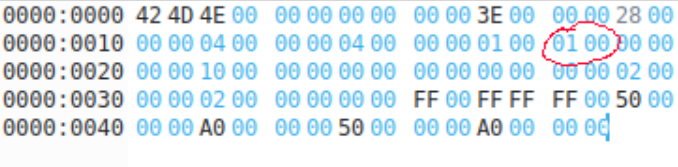
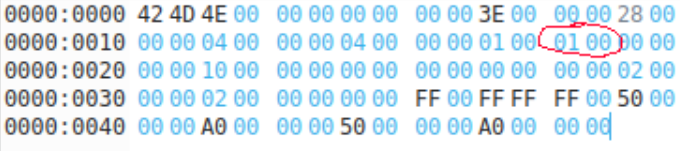
SAe et solo

diff --git a/SAE/Image/rapport.md b/SAE/Image/rapport.md
@@ -34,35 +34,70 @@ Cette question-ci était plus simple que la précédente, en effet, il ne fallai
 
 ## A.3)
 
-### A.3.A)
+### A.3.1)
 
-Il y a 48 bits par pixel, on peut l'affirmer grâce aux deux octets entourés en rouge qui permettent de transmettre la quantité de bits par pixel. Comme c'est en little endian on inverse les valeurs, et 30 (base 16) en décimal vaut 48. 
+Il y a 48 bits par pixel, on peut l'affirmer grâce aux deux octets entourés en rouge qui permettent de transmettre la quantité de bits par pixel. Il y est inscrit "30 00" comme c'est en little endian on inverse les valeurs, et 30 (base 16) en décimal vaut 48. 
 
 <img src="Image3A.png" alt="Image de réponse à la question 3 A" width="400" />
 
 
 
-### A.3.B)
+### A.3.2)
 
 Comme on peut le voir sur l'image, il y a 4x4 pixels sur l'image, soit 16 pixels.
 Pour obtenir ces informations, j'ai fais un clique droit sur l'image, propriété, image.
 
 <img src="Image3B.png" alt="Image de réponse à la question 3 B" width="400" />
 
-### A.3.C)
+On peut aussi le voir grâce à ces octets entourés, qui représente en premier la largeur puis la hauteur, les deux valeurs sont à 04 00 00 00, encore une fois, nous sommes en little endian donc nous inversons et obtenons 4x4, alors il y a 4 pixels sur 4 pixels.
 
-Avant la conversion, l'image faisait 74 octets, après conversion, l'image en fait désormais 102, donc il n'y a pas de compression utilisée, au contraire, sa taille augmente.
+<img src="Image3B2.png" alt="Image de réponse à la question 3 B " width="400" />
+
+### A.3.3)
+
+En regardant dans les propriétés de l'image, on sait que l'image faisait 74 octets avant la conversion, mais qu'après conversion, on voit que l'image en fait désormais 102, donc il n'y a pas de compression utilisée, au contraire, sa taille augmente.
 
 <img src="Image3C.png" alt="Image de réponse à la question 3 C" width="400" />
 
+On peut confirmer ce que dise l'onglet propriété en allant dans Okteta et cherchons la taille inscrite dans le fichier, c'est inscrit 66 00 en little endian, si on convertit en décimal, on obtient bien 102 octets, donc la taille du fichier à bien augmenter.
 
-### A.3.D)
+<img src="Image3C2.png" alt="Image de réponse à la question 3 C" width="400" />
+
+
+### A.3.4)
 
 Sachant qu'avant la conversion, chaque pixel était codé sur 24 bits et qu'après conversion, chaque pixel est codé sur 48 bits, alors le format de codage de bits a effectivement changé.
 
 
-## A.4)
+## A.4.1)
 
-Il y a 8 bits par pixel, on peut l'affirmer grâce aux deux octets entourés en rouge qui permettent de transmettre la quantité de bits par pixel. Comme c'est en little endian on inverse les valeurs, et 30 (base 16) en décimal vaut 48. 
+Il y a 8 bits par pixel. Sur l'image, il y a 2 octets entourés en rouge, il y a écrit 01 00, comme c'est en little endian on inverse les octets, et nous obtenons la valeur 00 01, soit 1 en décimal, cela signifit donc qu'il y a 1 bit par pixel.
 
-<img src="Image3A.png" alt="Image de réponse à la question 3 A" width="400" />
+<img src="Image4A.png" alt="Image de réponse à la question 4 1" width="400" />
+
+## A.4.2)
+
+
+Comme on peut le voir sur l'image, il y a 4x4 pixels sur l'image, soit 16 pixels.
+Pour obtenir ces informations, j'ai fais un clique droit sur l'image, propriété, image.
+
+<img src="Image4B1.png" alt="Image de réponse à la question 4 B" width="400" />
+
+On peut aussi le voir grâce à ces octets entourés, qui représente en premier la largeur puis la hauteur, les deux valeurs sont à 04 00 00 00, encore une fois, nous sommes en little endian donc nous inversons et obtenons 4x4, alors il y a 4 pixels sur 4 pixels.
+
+
+<img src="Image4B2.png" alt="Image de réponse à la question 4 B " width="400" />
+
+
+### A.4.3)
+
+En regardant dans les propriétés de l'image, on sait que l'image faisait 102 octets avant la conversion, mais qu'après conversion, on voit que l'image en fait désormais 78, donc il y a bien eu une compression car sa taille a diminué et demande maintenant moins de bits pour être stocké.
+
+<img src="Image4C.png" alt="Image de réponse à la question 4 C" width="400" />
+
+On peut confirmer ce que dise l'onglet propriété en allant dans Okteta et cherchons la taille inscrite dans le fichier, c'est inscrit 4E 00 en little endian, si on convertit en décimal, on obtient bien 78 octets, donc la taille du fichier à bien diminuer.
+
+<img src="Image4C2.png" alt="Image de réponse à la question 4 C" width="400" />
+
+
+### A.4.4)
